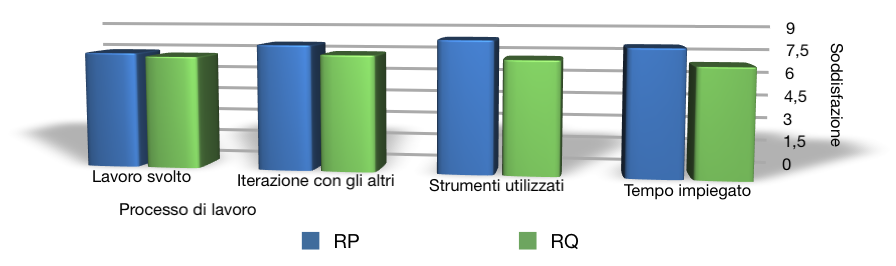
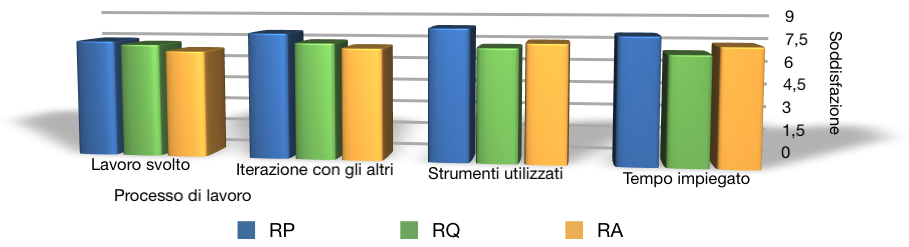
FIX PianoDiQualifica.tex Sistemazione grafici test feedback ADD nuovi grafici per il feedback dei ticket

diff --git a/PianoDiQualifica.tex b/PianoDiQualifica.tex
@@ -2895,7 +2895,7 @@ informazioni dettagliate sul ticket corrispondente riferirsi al link
 
 \begin{figure}[htbp]
   \centering
-  \includegraphics[height=4.1cm]{img/PQ/InterazioneConGliAltri.png}
+  \includegraphics[height=4.1cm]{img/PQ/IterazioneConGliAltri.png}
 \caption{Feedback processo di lavoro - Interazione con gli altri}
 \end{figure}
 
